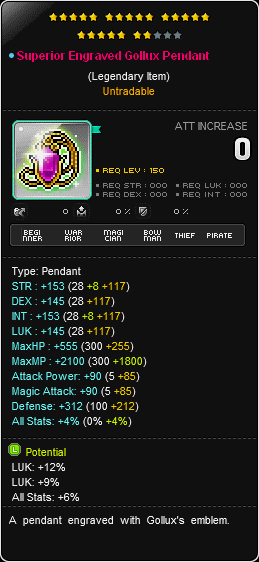
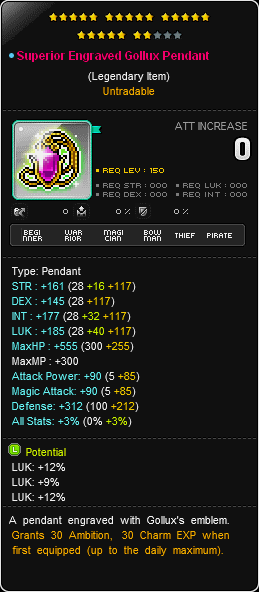
Update equip potential for Pendant 1

Changed region(s): [[0.0309, 0.1815, 0.9575, 0.9377], [0.0309, 0.0, 0.8031, 0.1815], [0.6795, 0.1815, 0.9884, 0.363]]

diff --git a/data/equips.ts b/data/equips.ts
@@ -63,7 +63,7 @@ export const equips: Equip[] = [
   {
     name: 'Pendant 1',
     stars: [22, null, 5],
-    potential: [27, null, 20],
+    potential: [33, null, 20],
     image: images.pendant1,
     alt: [null, images.pendant1_drop],
   },
